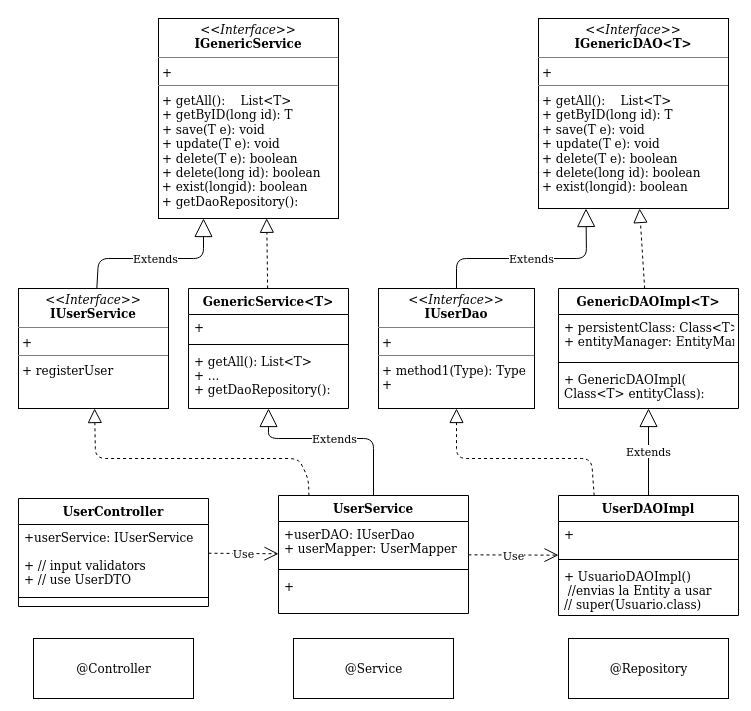
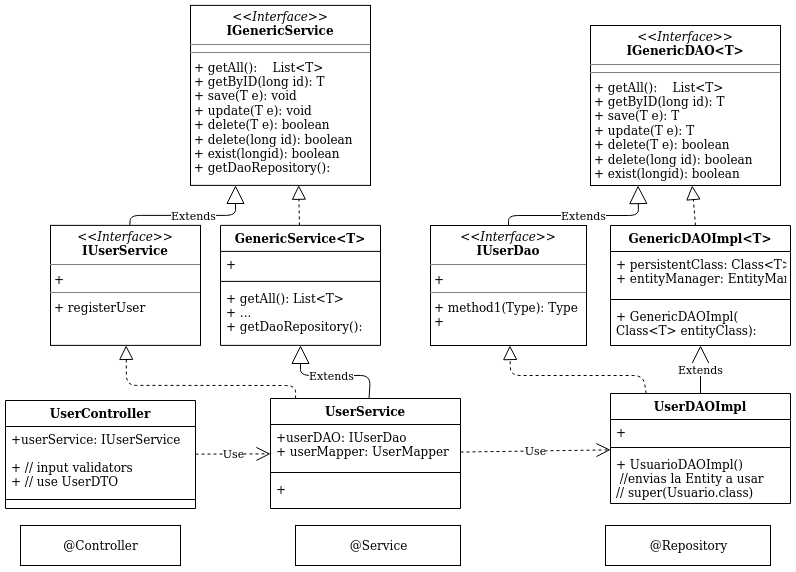
agregado de diagrama UML mas modificacion de readme

Changed region(s): [[0.0, 0.0, 1.0, 1.0], [0.735, 0.9213, 0.7656, 0.9808]]

diff --git a/README.md b/README.md
@@ -1,12 +1,29 @@
 ## InventProj
 
-es un proyecto base generico para plataformas web
-de administracion para usuarios Roles y permisos en una applicacion web
 
-se encuentra implementado com Maven, Java 11, Spring Framework 5.2.3 en Arquitectura MVC
-Hibernate para acceso a BD
+Es un **proyecto base** de plataformas web generica 
+lleva implementada la administracion ABM para Usuarios Roles y Permisos
+con posibilidad de agregar **Roles personalizados** asignando permisos para proteger y personalizar el acceso a las funciones de la aplicacion web
 
-buenas practicas Clases Genericas
+y una app basica de ejemplo de post-topic
 
-##### UML
+se encuentra implementado con **Maven, Java 11, Spring Framework 5.2.3**
+   **Hibernate** para acceso a BD, **manejo de errores y excepciones** por cada capa de la arquitectura MVC de Spring y JSP para front
+
+
+clases Interfaces clases Genericas y patrones de diseño
+
+##### UML entities 
+![uml entities](readme/entities/entities.png)
+
+- La implementacion de entidades se realiza con **JPA Hibernate** 
+- Implementa la administracion para 	   **User -> Roles -> Permits**
+
+##### UML spring MVC
 ![alt text](readme/estructSpring/estructSpring.png)
+
+-ejemplo de la implementacion de la arquitectura MVC de spring con **User** para **Controller Service y Repository**
+
+
+
+la implementacion lleva un DefaultRestController para poder realizar un carga inicial con datos de prueba y poder modificar o agregar para realizar pruebas
